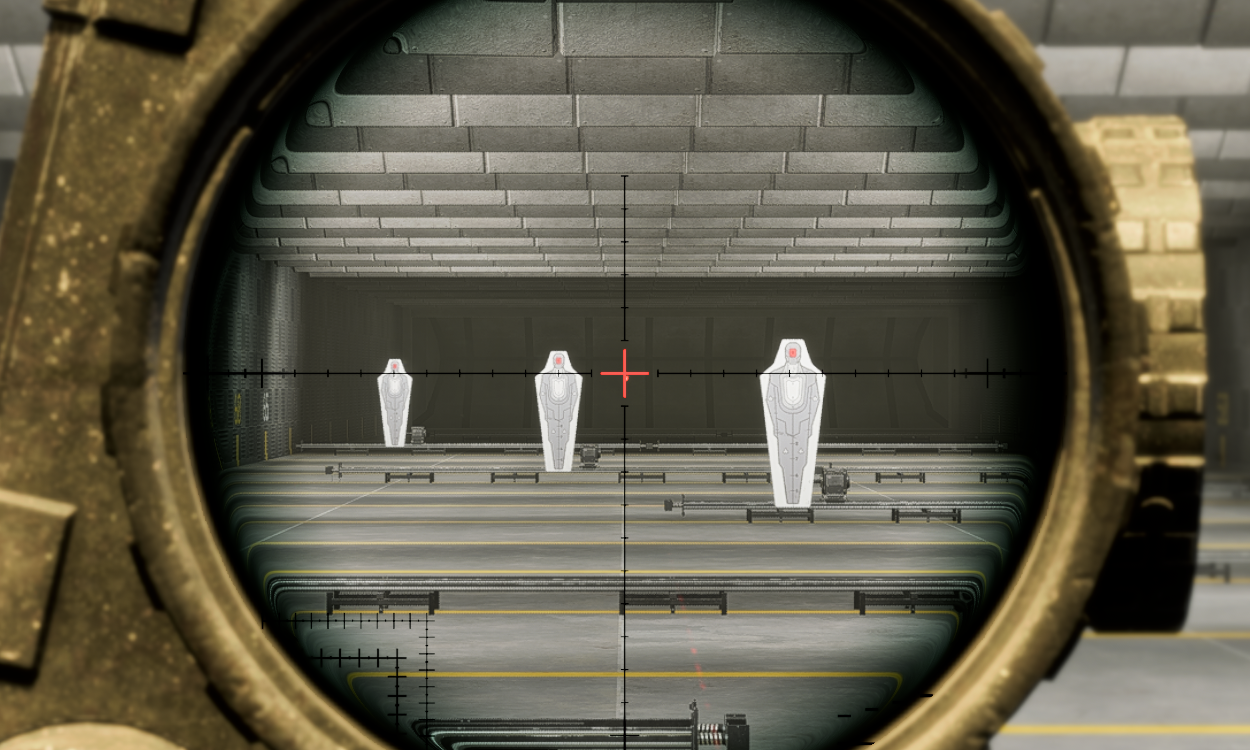
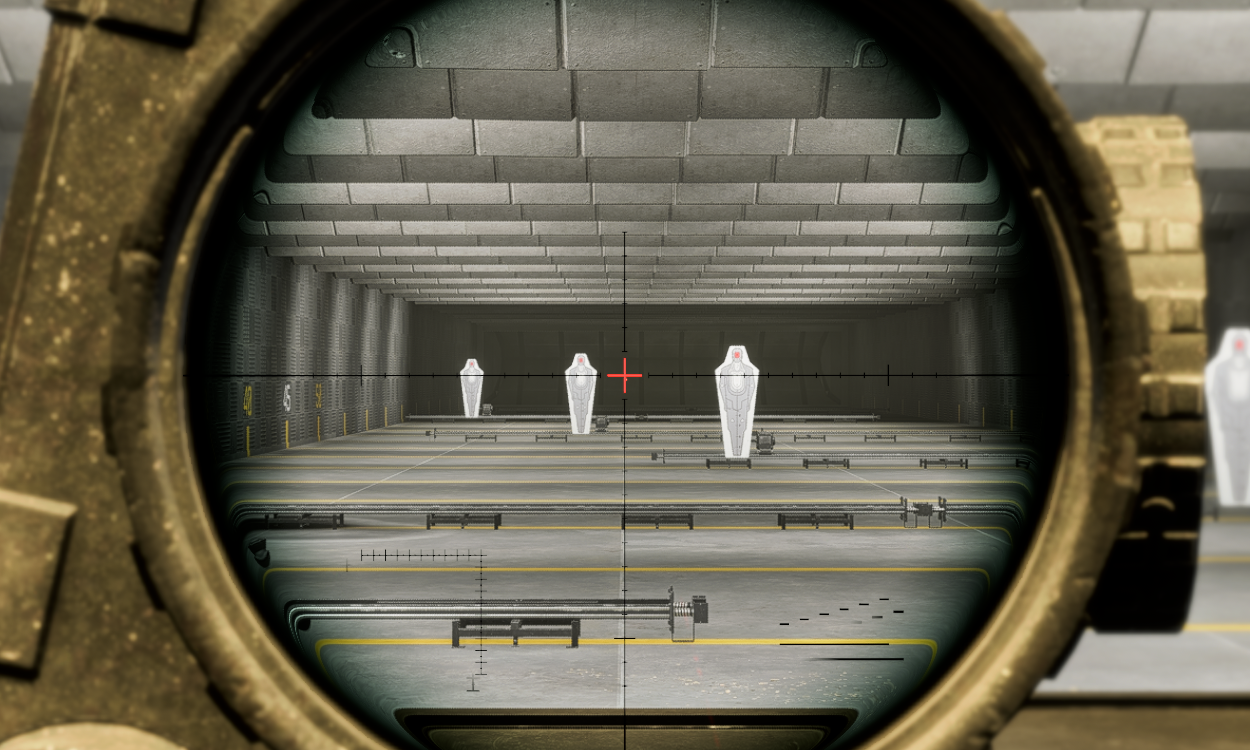
chore: update scope images and data for consistency
- Added a new high-definition scope image (38-ts-hd_6.00x[25].png) to the scope data.
- Removed the outdated 1x image (37-sm_rifle_variable-1x[25].png) to streamline the image set.
- Updated existing binary files for 2x and 4x images to ensure uniformity in quality.

diff --git a/scopes-data.js b/scopes-data.js
@@ -59,5 +59,6 @@ window.BF6_SCOPE_IMAGES = [
   "37-sm_rifle_variable-1x[25].png",
   "37-sm_rifle_variable-2x[25].png",
   "37-sm_rifle_variable-4x[25].png",
-  "37-sm_rifle_variable-8x[25].png"
+  "37-sm_rifle_variable-8x[25].png",
+  "38-ts-hd_6.00x[25].png"
 ];
